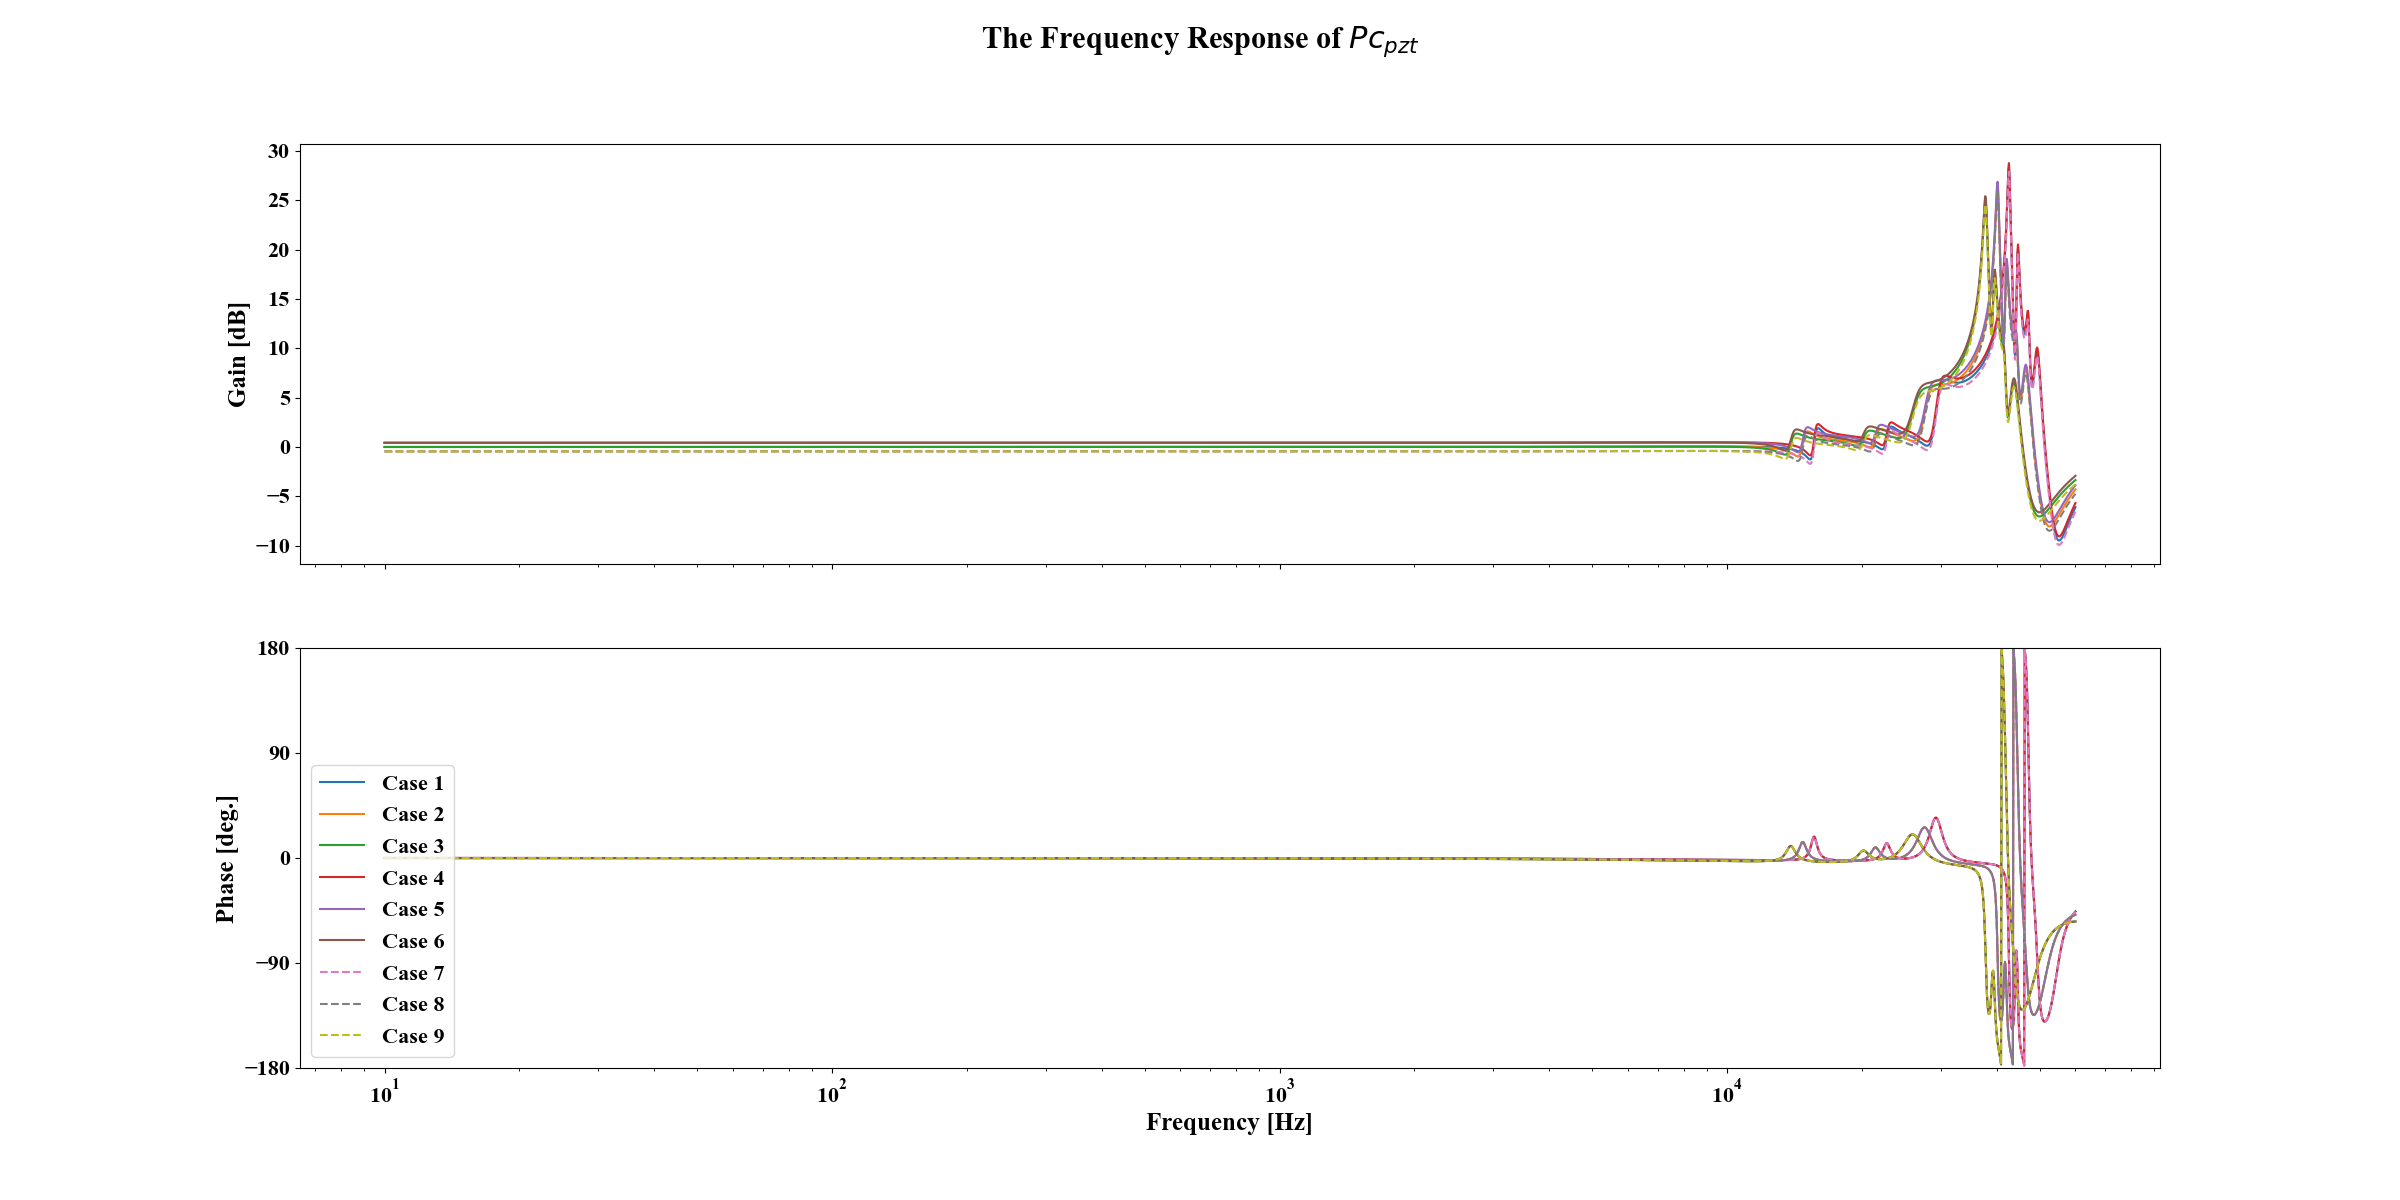
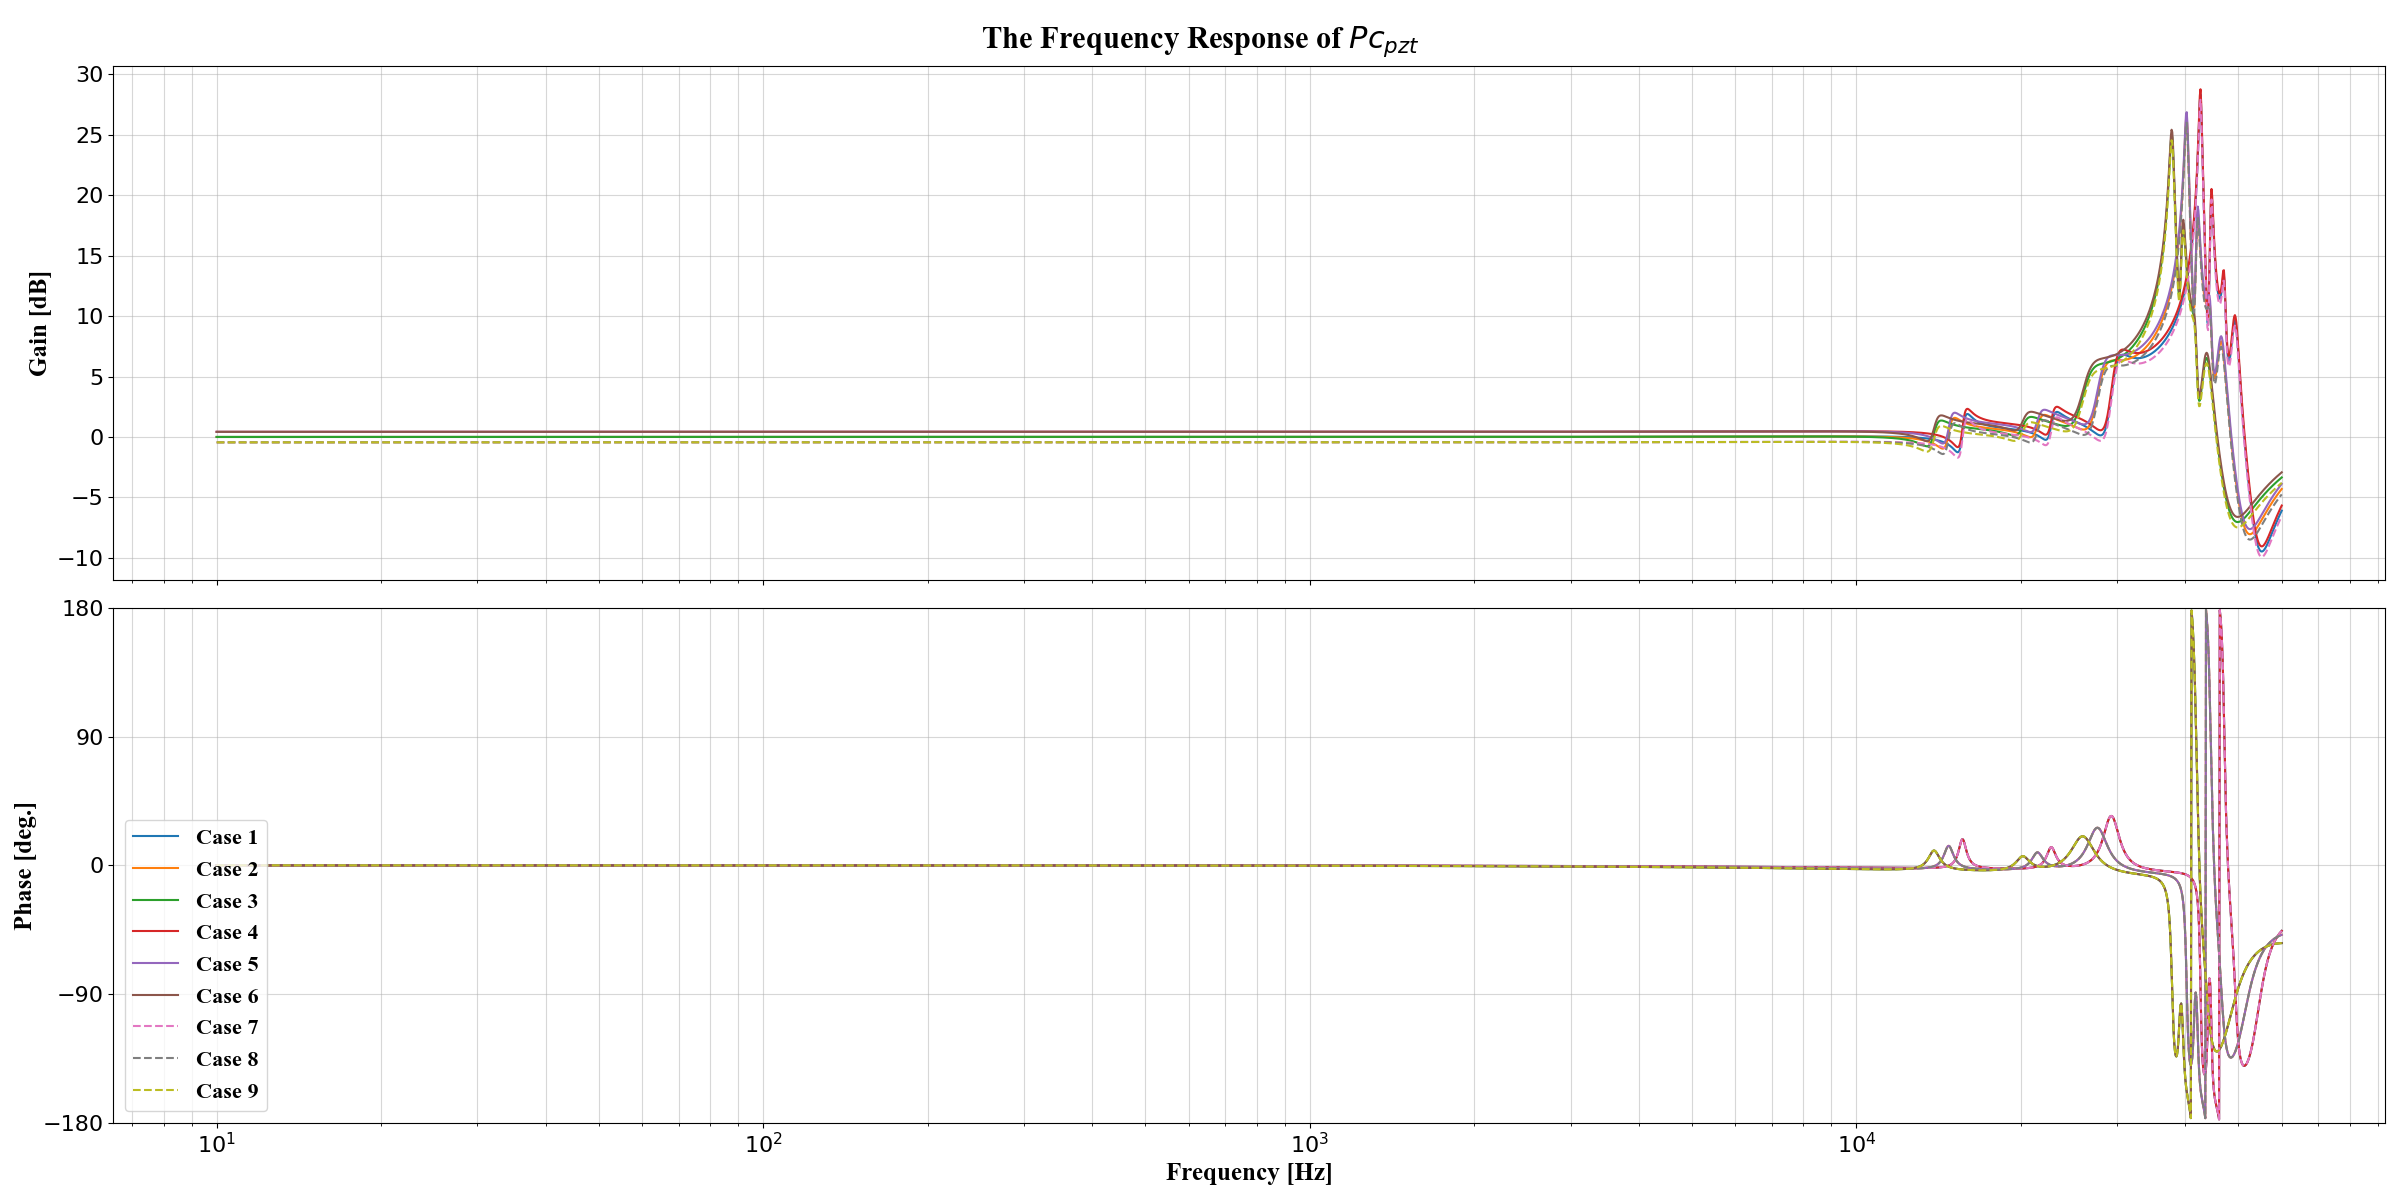
add warning filter and change the fre_response plot for better axis

diff --git a/utils.py b/utils.py
@@ -4,6 +4,10 @@ import numpy as np
 import matplotlib.pyplot as plt
 import json
 import os
+from matplotlib.ticker import MultipleLocator
+import pickle
+
+
 
 
 # make sure we have the output locations made
@@ -289,69 +293,45 @@ def Freq_Resp_Plot(Fr_Resp_all_Mag, Fr_Resp_all_Phase, Freq, name, phase_range=(
         save_path (str, optional): The path to save the plot. Defaults to None.
     """
 
-    title = name
+    fig, (ax1, ax2) = plt.subplots(2, 1, sharex=True, figsize=(24, 12))
+    fig.suptitle(name, fontsize=22, fontweight='bold', fontfamily='Times New Roman')
 
-    fig, ax = plt.subplots(2,1, sharex='col', figsize = (24, 12))
-    fig.suptitle(title, fontsize=22, weight='bold', family='Times New Roman')
-    plt.xticks(font={'family': 'Times New Roman', 'size' : 16, 'weight': 'bold'})
-    plt.yticks(font={'family': 'Times New Roman', 'size' : 16, 'weight': 'bold'})
-    plt.xscale('log')
-    l1 = []
-    l2 = []
-    label = []
+    # Common settings for both subplots
+    for ax in (ax1, ax2):
+        ax.set_xscale('log')
+        ax.tick_params(axis='both', which='major', labelsize=16)
+        ax.grid(True, which="both", ls="-", alpha=0.5)
 
-    for i in range(Fr_Resp_all_Mag.shape[0]):
-
-        Fr_Resp_Mag = Fr_Resp_all_Mag[i]
-        Fr_Resp_Phase = Fr_Resp_all_Phase[i]
-
-        # The setting of subfigure 1
-        ax1 = ax[0]
-        
-        ax1.set_ylabel("Gain [dB]", fontdict={'family': 'Times New Roman',
-                                                'size' : 18, 'weight': 'bold'}) 
-        
-        plt.sca(ax[0])
-        plt.yticks(font={'family': 'Times New Roman', 'size' : 16, 'weight': 'bold'})
-        
-        # The setting of subfigure 2
-        ax2 = ax[1]
-        
-        ax2.set_xlabel("Frequency [Hz]", fontdict={'family': 'Times New Roman',
-                                                'size' : 18, 'weight': 'bold'}) 
-        ax2.set_ylabel("Phase [deg.]", fontdict={'family': 'Times New Roman',
-                                                'size' : 18, 'weight': 'bold'})
-        
-        plt.sca(ax[1])
-        y_major_locator = plt.MultipleLocator(90)
-        ax2.yaxis.set_major_locator(y_major_locator)
-        plt.ylim(phase_range[0], phase_range[1])
-
-        if i > 5:
-
-            l, = ax1.plot(Freq, Fr_Resp_Mag, linestyle="--")
-            l1.append(l)
-
-            l, = ax2.plot(Freq, Fr_Resp_Phase, linestyle="--")
-            l2.append(l)
-
-        else:
-
-            l, = ax1.plot(Freq, Fr_Resp_Mag, linestyle="-")
-            l1.append(l)
-
-            l, = ax2.plot(Freq, Fr_Resp_Phase, linestyle="-")
-            l2.append(l)
-        
-        label.append('Case '+ str(i+1))
-    if len(l2)>1:  
-        ax2.legend(handles=l2, 
-                labels=label,
-                loc="lower left", 
-                prop={'family': 'Times New Roman', 'size': 16, 'weight': 'bold'}
-                )
+    # Magnitude plot
+    ax1.set_ylabel("Gain [dB]", fontsize=18, fontweight='bold', fontfamily='Times New Roman')
     
-    if save_path != None:
+    # Phase plot
+    ax2.set_xlabel("Frequency [Hz]", fontsize=18, fontweight='bold', fontfamily='Times New Roman')
+    ax2.set_ylabel("Phase [deg.]", fontsize=18, fontweight='bold', fontfamily='Times New Roman')
+    ax2.set_ylim(phase_range)
+    ax2.yaxis.set_major_locator(MultipleLocator(90))
+
+    lines = []
+    labels = []
+
+    num_cases = Fr_Resp_all_Mag.shape[0]
+
+    for i in range(num_cases):
+        linestyle = "--" if i > 5 else "-"
+        
+        l_mag, = ax1.plot(Freq, Fr_Resp_all_Mag[i], linestyle=linestyle)
+        ax2.plot(Freq, Fr_Resp_all_Phase[i], linestyle=linestyle, color=l_mag.get_color())
+        
+        lines.append(l_mag)
+        labels.append(f'Case {i+1}')
+
+    # Add legend to the lower subplot
+    ax2.legend(lines, labels, loc="lower left", 
+               prop={'family': 'Times New Roman', 'size': 16, 'weight': 'bold'})
+
+    plt.tight_layout()
+    
+    if save_path:
         plt.savefig(save_path)
 
 

diff --git a/plot_control_system.py b/plot_control_system.py
@@ -3,6 +3,9 @@ from utils import *
 import plant
 from control import matlab
 import print_ASCII as pa
+import warnings
+# Suppress specific warnings
+warnings.filterwarnings("ignore", category=UserWarning, module="control.lti")
 # prints ASCII art of the system
 pa.print_system()
 
@@ -59,7 +62,8 @@ Fr_L = Fr_L_vcm_all + Fr_L_pzt_all
 Fr_S = 1. / (1 + Fr_L)
 
 # Plot the Frequency Response of the system 
-
+# Suppress the specific UserWarning about mismatched handles and labels
+warnings.filterwarnings("ignore", message="Mismatched number of handles and labels")
 # Fr_Pc_vcm_all
 save_path = get_plot_path("figure9_The_Frequency_Response_of_Pc_vcm.png")
 title = 'The Frequency Response of $Pc_{vcm}$' 
